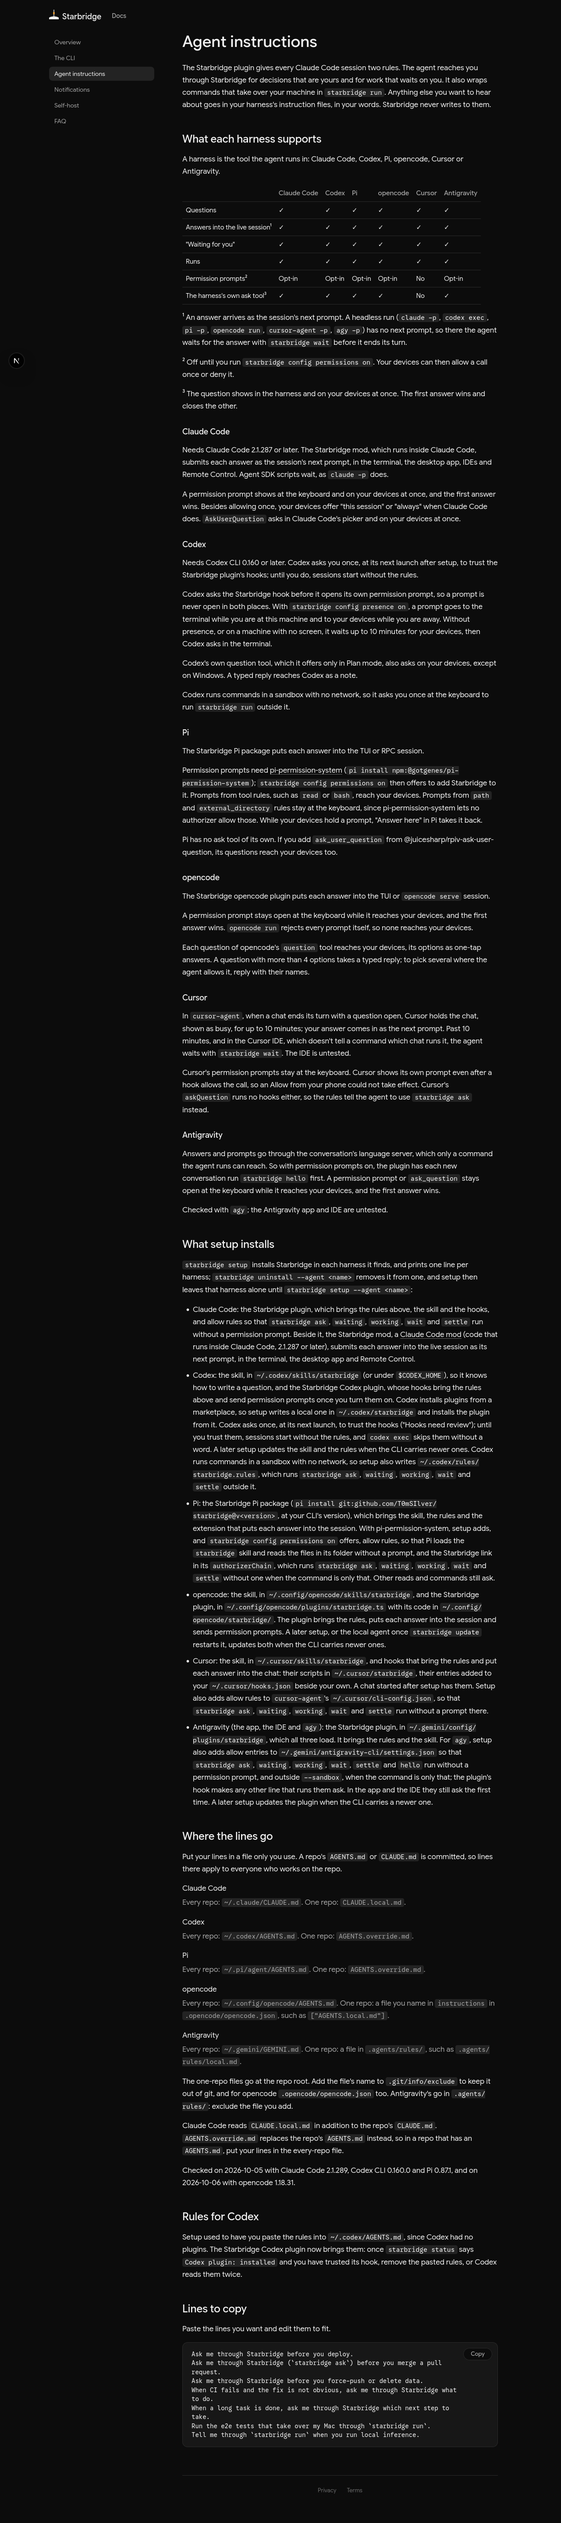
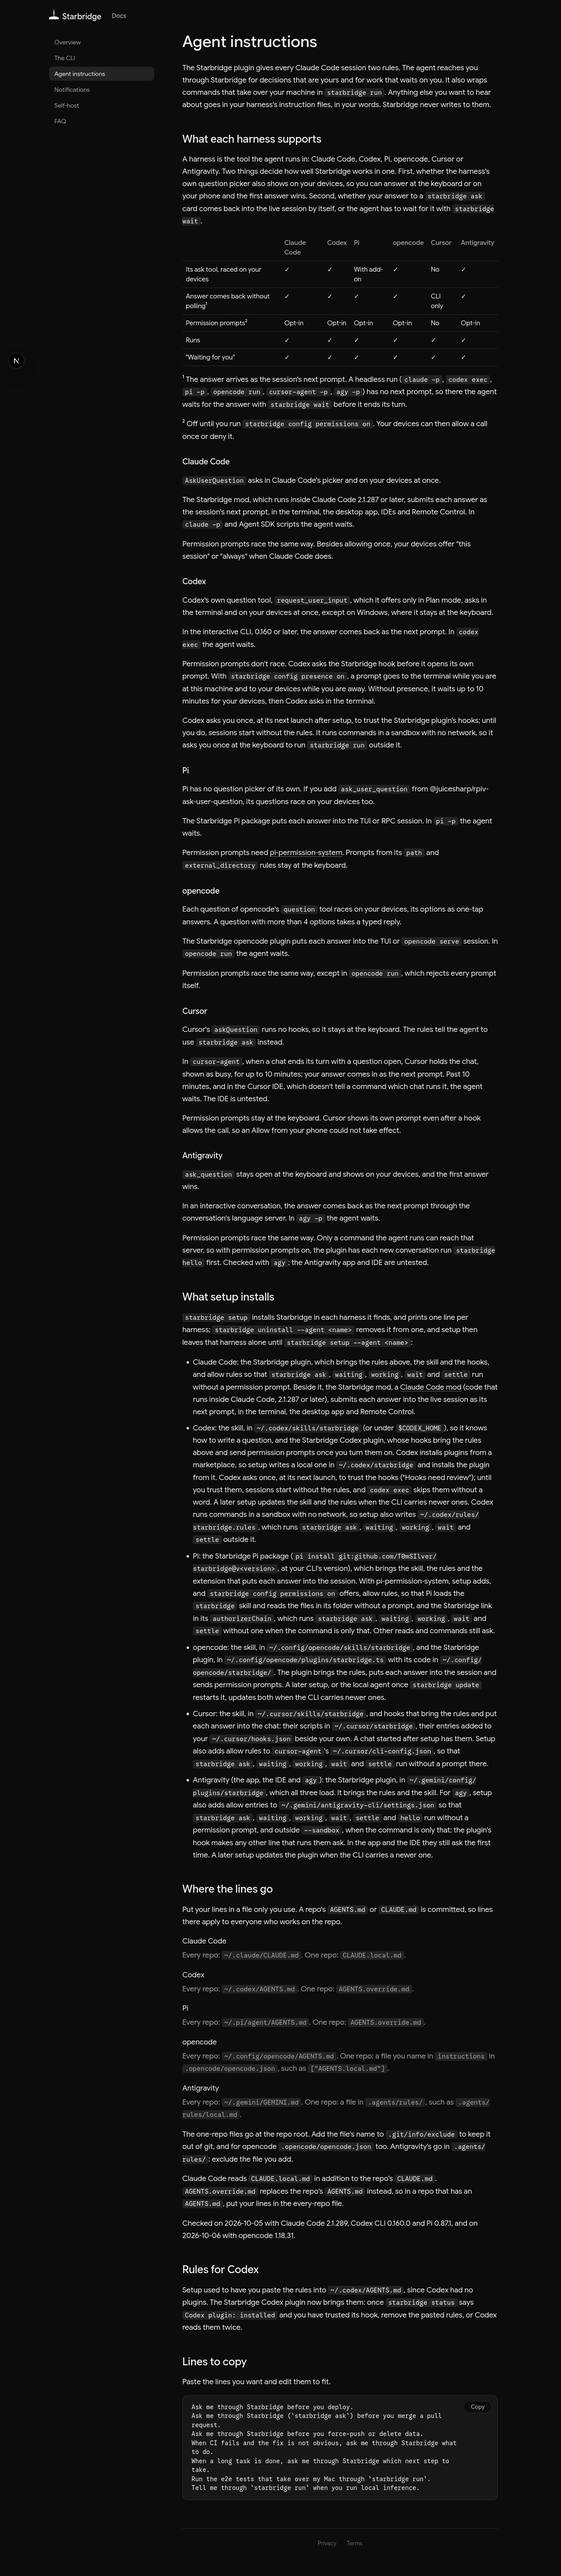
Docs: lead the harness table with the raced ask tool and answers without polling

Changed region(s): [[0.3125, 0.0, 0.875, 0.965], [0.0938, 0.0, 0.125, 0.0311]]

diff --git a/docs/tell-your-agents.md b/docs/tell-your-agents.md
@@ -11,96 +11,97 @@ instruction files, in your words. Starbridge never writes to them.
 ## What each harness supports
 
 A harness is the tool the agent runs in: Claude Code, Codex, Pi, opencode, Cursor or Antigravity.
+Two things decide how well Starbridge works in one. First, whether the harness's own question
+picker also shows on your devices, so you can answer at the keyboard or on your phone and the
+first answer wins. Second, whether your answer to a `starbridge ask` card comes back into the
+live session by itself, or the agent has to wait for it with `starbridge wait`.
 
 | | Claude Code | Codex | Pi | opencode | Cursor | Antigravity |
 |---|---|---|---|---|---|---|
-| Questions | ✓ | ✓ | ✓ | ✓ | ✓ | ✓ |
-| Answers into the live session¹ | ✓ | ✓ | ✓ | ✓ | ✓ | ✓ |
-| "Waiting for you" | ✓ | ✓ | ✓ | ✓ | ✓ | ✓ |
-| Runs | ✓ | ✓ | ✓ | ✓ | ✓ | ✓ |
+| Its ask tool, raced on your devices | ✓ | ✓ | With add-on | ✓ | No | ✓ |
+| Answer comes back without polling¹ | ✓ | ✓ | ✓ | ✓ | CLI only | ✓ |
 | Permission prompts² | Opt-in | Opt-in | Opt-in | Opt-in | No | Opt-in |
-| The harness's own ask tool³ | ✓ | ✓ | ✓ | ✓ | No | ✓ |
+| Runs | ✓ | ✓ | ✓ | ✓ | ✓ | ✓ |
+| "Waiting for you" | ✓ | ✓ | ✓ | ✓ | ✓ | ✓ |
 
-¹ An answer arrives as the session's next prompt. A headless run (`claude -p`, `codex exec`,
+¹ The answer arrives as the session's next prompt. A headless run (`claude -p`, `codex exec`,
 `pi -p`, `opencode run`, `cursor-agent -p`, `agy -p`) has no next prompt, so there the agent
 waits for the answer with `starbridge wait` before it ends its turn.
 
 ² Off until you run `starbridge config permissions on`. Your devices can then allow a call once
 or deny it.
 
-³ The question shows in the harness and on your devices at once. The first answer wins and closes
-the other.
-
 ### Claude Code
 
-Needs Claude Code 2.1.287 or later. The Starbridge mod, which runs inside Claude Code, submits
-each answer as the session's next prompt, in the terminal, the desktop app, IDEs and Remote
-Control. Agent SDK scripts wait, as `claude -p` does.
-
-A permission prompt shows at the keyboard and on your devices at once, and the first answer wins.
-Besides allowing once, your devices offer "this session" or "always" when Claude Code does.
 `AskUserQuestion` asks in Claude Code's picker and on your devices at once.
+
+The Starbridge mod, which runs inside Claude Code 2.1.287 or later, submits each answer as the
+session's next prompt, in the terminal, the desktop app, IDEs and Remote Control. In `claude -p`
+and Agent SDK scripts the agent waits.
+
+Permission prompts race the same way. Besides allowing once, your devices offer "this session"
+or "always" when Claude Code does.
 
 ### Codex
 
-Needs Codex CLI 0.160 or later. Codex asks you once, at its next launch after setup, to trust the
-Starbridge plugin's hooks; until you do, sessions start without the rules.
+Codex's own question tool, `request_user_input`, which it offers only in Plan mode, asks in the
+terminal and on your devices at once, except on Windows, where it stays at the keyboard.
 
-Codex asks the Starbridge hook before it opens its own permission prompt, so a prompt is never
-open in both places. With `starbridge config presence on`, a prompt goes to the terminal while
-you are at this machine and to your devices while you are away. Without presence, or on a machine
-with no screen, it waits up to 10 minutes for your devices, then Codex asks in the terminal.
+In the interactive CLI, 0.160 or later, the answer comes back as the next prompt. In `codex exec`
+the agent waits.
 
-Codex's own question tool, which it offers only in Plan mode, also asks on your devices, except on
-Windows. A typed reply reaches Codex as a note.
+Permission prompts don't race. Codex asks the Starbridge hook before it opens its own prompt. With
+`starbridge config presence on`, a prompt goes to the terminal while you are at this machine and
+to your devices while you are away. Without presence, it waits up to 10 minutes for your devices,
+then Codex asks in the terminal.
 
-Codex runs commands in a sandbox with no network, so it asks you once at the keyboard to run
-`starbridge run` outside it.
+Codex asks you once, at its next launch after setup, to trust the Starbridge plugin's hooks;
+until you do, sessions start without the rules. It runs commands in a sandbox with no network,
+so it asks you once at the keyboard to run `starbridge run` outside it.
 
 ### Pi
 
-The Starbridge Pi package puts each answer into the TUI or RPC session.
+Pi has no question picker of its own. If you add `ask_user_question` from
+@juicesharp/rpiv-ask-user-question, its questions race on your devices too.
+
+The Starbridge Pi package puts each answer into the TUI or RPC session. In `pi -p` the agent
+waits.
 
 Permission prompts need
-[pi-permission-system](https://github.com/gotgenes/pi-packages/tree/main/packages/pi-permission-system)
-(`pi install npm:@gotgenes/pi-permission-system`); `starbridge config permissions on` then offers
-to add Starbridge to it. Prompts from tool rules, such as `read` or `bash`, reach your devices.
-Prompts from `path` and `external_directory` rules stay at the keyboard, since
-pi-permission-system lets no authorizer allow those. While your devices hold a prompt, "Answer
-here" in Pi takes it back.
-
-Pi has no ask tool of its own. If you add `ask_user_question` from
-@juicesharp/rpiv-ask-user-question, its questions reach your devices too.
+[pi-permission-system](https://github.com/gotgenes/pi-packages/tree/main/packages/pi-permission-system).
+Prompts from its `path` and `external_directory` rules stay at the keyboard.
 
 ### opencode
 
-The Starbridge opencode plugin puts each answer into the TUI or `opencode serve` session.
+Each question of opencode's `question` tool races on your devices, its options as one-tap
+answers. A question with more than 4 options takes a typed reply.
 
-A permission prompt stays open at the keyboard while it reaches your devices, and the first answer
-wins. `opencode run` rejects every prompt itself, so none reaches your devices.
+The Starbridge opencode plugin puts each answer into the TUI or `opencode serve` session. In
+`opencode run` the agent waits.
 
-Each question of opencode's `question` tool reaches your devices, its options as one-tap answers.
-A question with more than 4 options takes a typed reply; to pick several where the agent allows
-it, reply with their names.
+Permission prompts race the same way, except in `opencode run`, which rejects every prompt itself.
 
 ### Cursor
 
+Cursor's `askQuestion` runs no hooks, so it stays at the keyboard. The rules tell the agent to use
+`starbridge ask` instead.
+
 In `cursor-agent`, when a chat ends its turn with a question open, Cursor holds the chat, shown as
 busy, for up to 10 minutes; your answer comes in as the next prompt. Past 10 minutes, and in the
-Cursor IDE, which doesn't tell a command which chat runs it, the agent waits with `starbridge wait`.
-The IDE is untested.
+Cursor IDE, which doesn't tell a command which chat runs it, the agent waits. The IDE is untested.
 
-Cursor's permission prompts stay at the keyboard. Cursor shows its own prompt even after a hook
-allows the call, so an Allow from your phone could not take effect. Cursor's `askQuestion` runs no hooks either, so the rules
-tell the agent to use `starbridge ask` instead.
+Permission prompts stay at the keyboard. Cursor shows its own prompt even after a hook allows the
+call, so an Allow from your phone could not take effect.
 
 ### Antigravity
 
-Answers and prompts go through the conversation's language server, which only a command the
-agent runs can reach. So with permission prompts on, the plugin has each new conversation run
-`starbridge hello` first. A permission prompt or `ask_question` stays open at the keyboard while it
-reaches your devices, and the first answer wins.
+`ask_question` stays open at the keyboard and shows on your devices, and the first answer wins.
 
+In an interactive conversation, the answer comes back as the next prompt through the
+conversation's language server. In `agy -p` the agent waits.
+
+Permission prompts race the same way. Only a command the agent runs can reach that server, so
+with permission prompts on, the plugin has each new conversation run `starbridge hello` first.
 Checked with `agy`; the Antigravity app and IDE are untested.
 
 ## What setup installs

diff --git a/README.md b/README.md
@@ -71,12 +71,11 @@ agents' own notifications for what Starbridge already sends.
 
 | | Claude Code | Codex | Pi | opencode | Cursor | Antigravity |
 |---|---|---|---|---|---|---|
-| Questions | ✓ | ✓ | ✓ | ✓ | ✓ | ✓ |
-| Answers into the live session | ✓ | ✓ | ✓ | ✓ | ✓ | ✓ |
-| "Waiting for you" | ✓ | ✓ | ✓ | ✓ | ✓ | ✓ |
-| Runs | ✓ | ✓ | ✓ | ✓ | ✓ | ✓ |
+| Its ask tool, raced on your devices | ✓ | ✓ | With add-on | ✓ | No | ✓ |
+| Answer comes back without polling | ✓ | ✓ | ✓ | ✓ | CLI only | ✓ |
 | Permission prompts | Opt-in | Opt-in | Opt-in | Opt-in | No | Opt-in |
-| The harness's own ask tool | ✓ | ✓ | ✓ | ✓ | No | ✓ |
+| Runs | ✓ | ✓ | ✓ | ✓ | ✓ | ✓ |
+| "Waiting for you" | ✓ | ✓ | ✓ | ✓ | ✓ | ✓ |
 
 An answer arrives as the session's next prompt. In Claude Code, the Starbridge mod submits it. A
 [Claude Code mod](https://code.claude.com/docs/en/plugins/mods/overview) is code that runs inside
